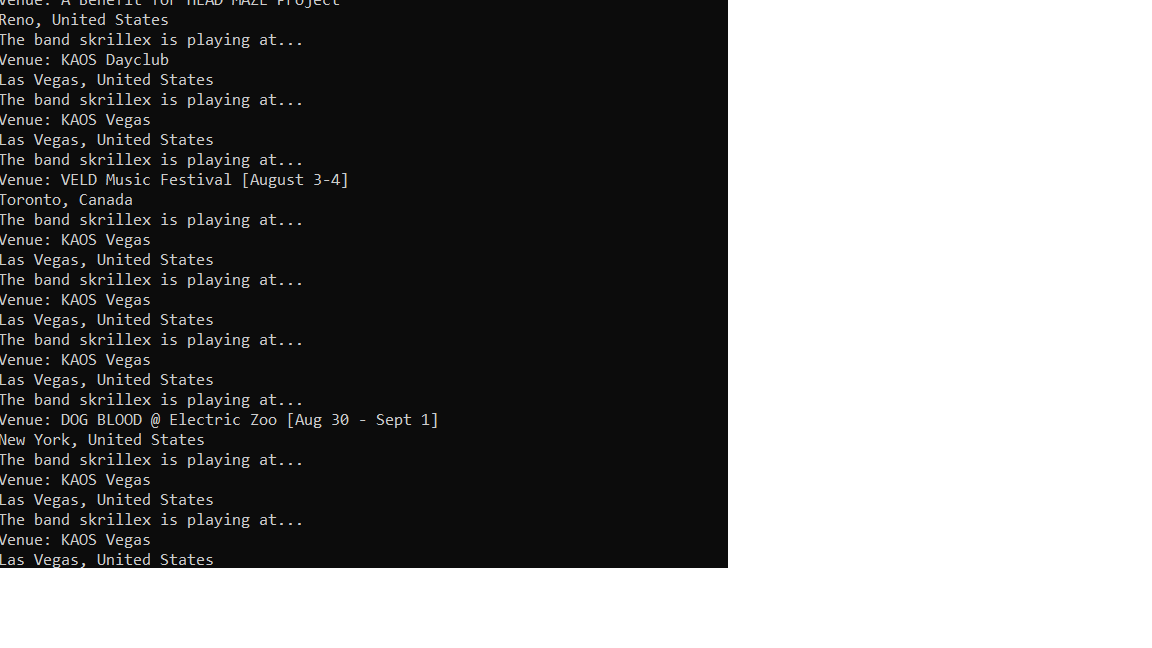
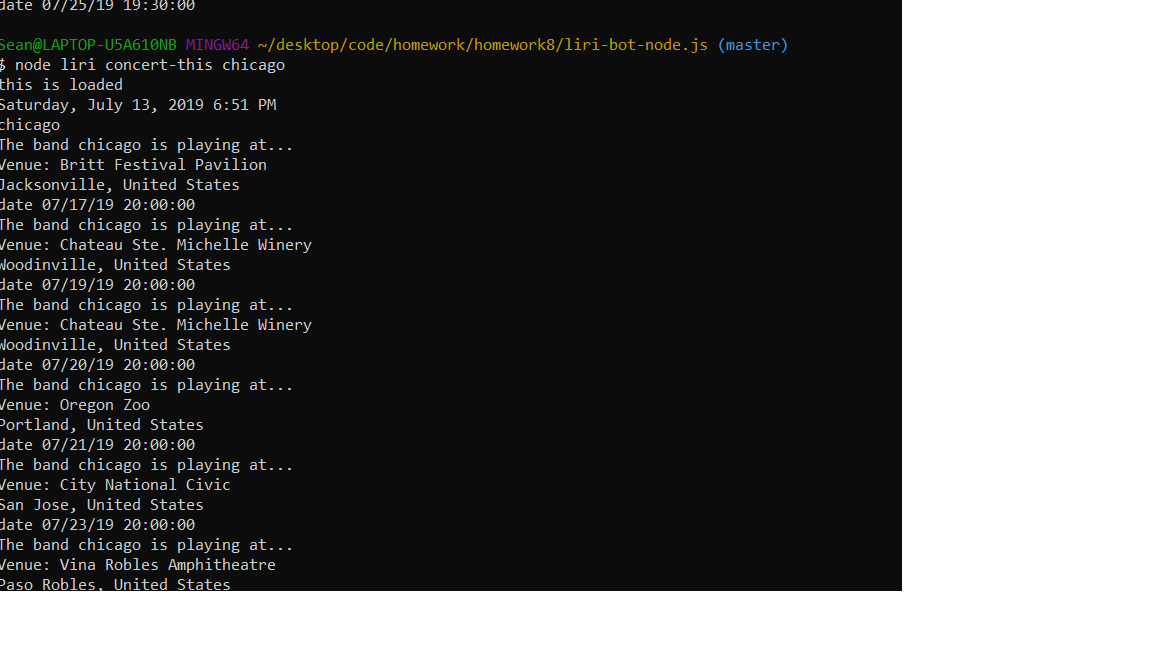
updated readme, moment

Changed region(s): [[0.0, 0.0, 0.7812, 0.9259], [0.25, 0.0, 0.2812, 0.0309]]

diff --git a/liri.js b/liri.js
@@ -2,20 +2,24 @@ require("dotenv").config();
 var keys = require("./keys.js");
 // var spotify = new Spotify(keys.spotify);
 var fs = require("fs");
+
 var moment = require('moment');
-// moment().format();
+moment().format();
+var time = moment().format('LLLL');
+console.log(time)
+
 var axios = require('axios');
 var input = process.argv[2];
-var secondCommand = process.argv[3];    
+var secondCommand = process.argv[3];
 artist = secondCommand;
-// var command = "";
-// for (var i = 4; i < process.argv.length; i++) {
-//     secondCommand += '+' + process.argv[i];
-// }
+var command = "";
+for (var i = 4; i < process.argv.length; i++) {
+    secondCommand += '+' + process.argv[i];
+}
 
 
 function concert(artist) {
-    // var date = moment(response.data[i].datetime).format("MM/DD/YY HH:mm:ss")
+  
     var url = "https://rest.bandsintown.com/artists/" + artist + "/events?app_id=codingbootcamp";
     axios.get(url).then(function(response) {
         console.log(artist)
@@ -23,63 +27,15 @@ function concert(artist) {
         
         // console.log(response)
        for(var i = 0; i<data.length; i++) {
+        var date = moment(response.data[i].datetime).format("MM/DD/YY HH:mm:ss")
         console.log("The band " + artist + " is playing at...")
         console.log("Venue: " + data[i].venue.name)
         console.log(data[i].venue.city + ", " + data[i].venue.country);
-    //    console.log("date "+ date)
+        console.log("date "+ date)
        };
     });
 };
 concert(artist);
 
 
-// function getSong(title) {
 
-//     // Import the spotify API
-//     var Spotify = require('node-spotify-api');
-
-//   
-//     var spotify = new Spotify(keys.spotify);
-
-//     title = title.replace(' ', '+');
-
-
-//     spotify
-//         .search({ type: 'track', query: title })
-//         .then(function(response) {
-
-//             // console.log(response);
-//             // console.log(response.tracks.items[0]);
-
-//             // Use first result
-//             var firstResult = response.tracks.items[0];
-
-//             // Store song information
-//             var artist = firstResult.artists[0].name;
-//             var songName = firstResult.name;
-//             // var previewLink = firstResult.href;
-//             var previewLink = firstResult.external_urls.spotify;
-//             var album = firstResult.album.name;
-
-
-// // SPOTIFY
-// else if (action === 'spotify-this-song') {
-//     // Search by keyword if provided
-//     if (title) {
-//         fs.appendFile('log.txt', '\n' + '\n' + 'COMMAND: ' + action + ', "' + title + '"' + '\n', function(err) {
-//             if (err) {
-//                 console.log(err);
-//             }
-//         });
-//         getSong(title);
-//     }
-//
-//     else {
-//         fs.appendFile('log.txt', '\n' + '\n' + 'COMMAND: ' + action + ', "The Sign" by Ace of Base' + '\n', function(err) {
-//             if (err) {
-//                 console.log(err);
-//             }
-//         });
-//         getSong()
-//     }
-// }

diff --git a/README.md b/README.md
@@ -92,4 +92,6 @@ Using the fs Node package, LIRI will take the text inside of random.txt and then
 
 It should run spotify-this-song for "I Want it That Way," as follows the text in random.txt.
 Edit the text in random.txt to test out the feature for movie-this and concert-this.
+
+Concert This
 <img src="images/concert-this.png"/>
